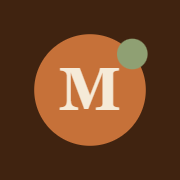
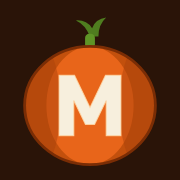
The M, carved as a pumpkin
Same near-black field, same big orange round shape, same cream M punched out
of it — so it still reads as this shop on a home screen full of apps. The
pumpkin is the ribbing and the stem, which says Halloween without turning
into a novelty the shop is stuck with in March.

The ribbing is clipped to the outline rather than drawn over it. Unclipped,
the side lobes hang past the bottom of the body and the whole thing reads as
three blobs rather than one pumpkin.

The manifest's colours are now the icon's own dark field instead of the
year-round brown, and they stay that way on both skins. The point is that
changing the skin is ONE word in index.html and nothing else — a manifest
tinted to match one palette would have quietly become a second and third
place to remember.

Service worker to v5 so phones actually pick up the new icon and the fonts
rather than serving a cached shell.

Worth knowing and now written down in DEPLOY.md: iOS caches a home-screen
icon at the moment it is added and will not refresh it. Customers who already
saved the app keep the old one; anyone adding it from here gets the pumpkin.

Claude-Session: https://claude.ai/code/session_01XWbuXdg51PwUvxtD4VTmky

diff --git a/sw.js b/sw.js
@@ -14,7 +14,7 @@
 // API calls are never cached. Stale order and stock data would be worse than
 // an honest error, so anything under /.netlify/ bypasses the worker entirely.
 
-const VERSION = 'v4';
+const VERSION = 'v5';
 const SHELL = 'mafuteros-shell-' + VERSION;
 const ASSETS = 'mafuteros-assets-' + VERSION;
 

diff --git a/DEPLOY.md b/DEPLOY.md
@@ -410,10 +410,22 @@ impossible rather than merely unlikely — the value is there before the first
 frame is painted, so there is nothing for the page to catch up to.
 
 Both palettes are defined at the top of `index.html` as two blocks of custom
-properties. They must define exactly the same set of names — the test suite
-checks it, because a colour defined in one and forgotten in the other does
-not throw anything: it just leaves one control cream on a black screen until
-somebody happens to look at that screen in that skin.
+properties, and the typeface switches with them — Caprasimo and Figtree on
+the year-round skin, Anton and IBM Plex Mono on Halloween. They must define
+exactly the same set of names. The test suite checks it, because a colour
+defined in one and forgotten in the other does not throw anything: it just
+leaves one control cream on a black screen until somebody happens to look at
+that screen in that skin.
+
+**That one word is the only edit.** The app icon and the colours in
+`manifest.webmanifest` are deliberately neutral — a dark field that sits
+under either palette — so flipping the skin never turns into a hunt through
+three files for the bits that did not come along.
+
+One thing that does NOT follow the skin, on any phone: an icon already added
+to a home screen. iOS caches it at the moment it was added and will not
+refresh it. Existing customers keep whatever icon they saved; anyone adding
+the app from now on gets the current one.
 
 ---
 
